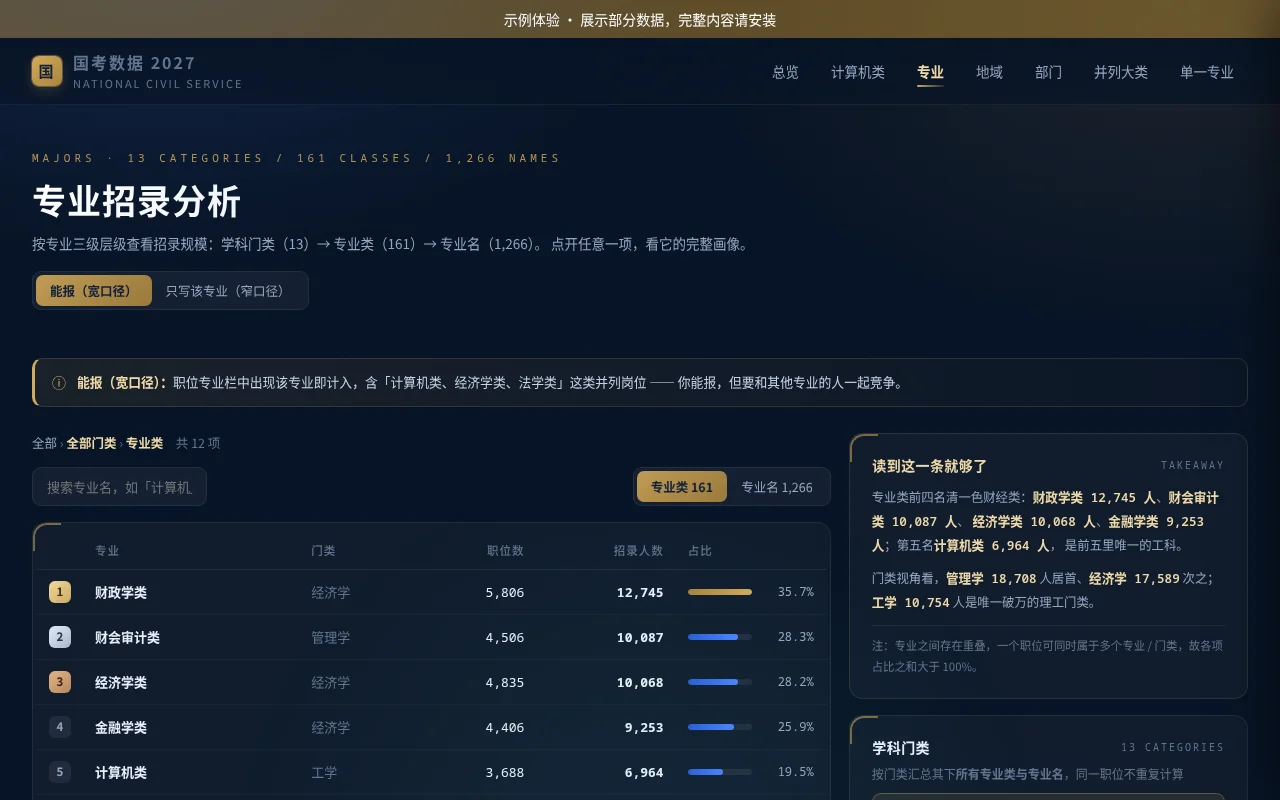
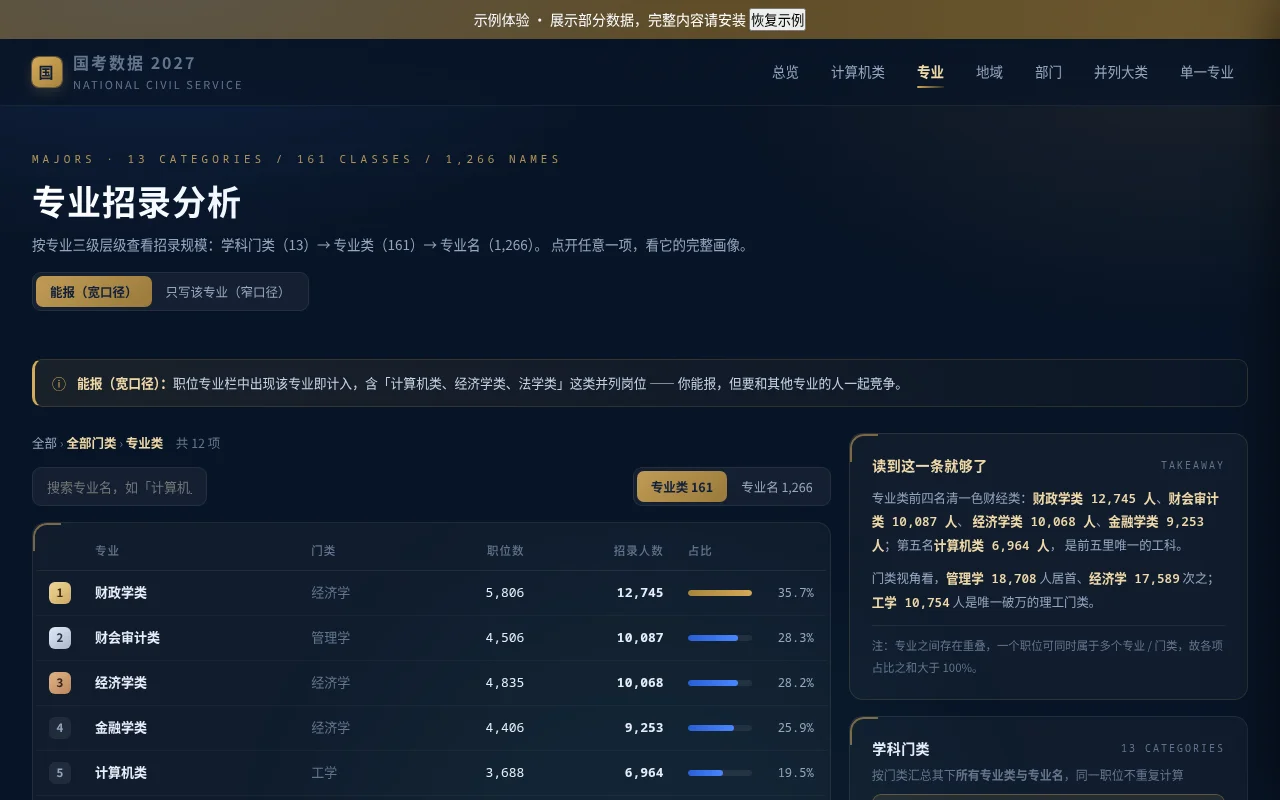
Add 2027 civil service statistics template

diff --git a/wb1024-c172-64de176f/showcase/preview.html b/wb1024-c172-64de176f/showcase/preview.html
@@ -317,7 +317,7 @@ h1 .zh{display:block}
 </style>
 </head>
 <body>
-<div style="padding:8px;text-align:center;background:#5f4d29;color:white">示例体验 · 展示部分数据，完整内容请安装</div><div id="nav"></div>
+<div style="padding:8px;text-align:center;background:#5f4d29;color:white">示例体验 · 展示部分数据，完整内容请安装 <button id="resetDemo" type="button">恢复示例</button></div><div id="nav"></div>
 <div class="wrap">
 
   <div class="head">
@@ -424,7 +424,7 @@ h1 .zh{display:block}
   </div>
 </div>
 
-<script>window.GK={"meta":{"title":"2027 年度国考招录数据","pos":19426,"hc":35691,"official":"3.57万","avg":1.84,"source":"国家公务员局《中央机关及其直属机构2027年度考试录用公务员招考简章》"},"counters":{"dept":589,"bureau":5927,"region":374,"major":1441,"major_cat":13,"major_class":161,"major_name":1266},"major_l1":[{"id":0,"name":"管理学","category":"管理学","level":1,"pos":9148,"hc":18708,"pct":52.42,"n_class":17,"n_name":96},{"id":0,"name":"经济学","category":"经济学","level":1,"pos":8444,"hc":17589,"pct":49.28,"n_class":12,"n_name":82},{"id":0,"name":"工学","category":"工学","level":1,"pos":6260,"hc":10754,"pct":30.13,"n_class":57,"n_name":375},{"id":0,"name":"理学","category":"理学","level":1,"pos":4334,"hc":7853,"pct":22,"n_class":20,"n_name":108},{"id":0,"name":"法学","category":"法学","level":1,"pos":3913,"hc":6815,"pct":19.09,"n_class":11,"n_name":79}],"major_l2":[{"id":500,"name":"财政学类","category":"经济学","level":2,"pos":5806,"hc":12745,"pct":35.71},{"id":947,"name":"财会审计类","category":"管理学","level":2,"pos":4506,"hc":10087,"pct":28.26},{"id":272,"name":"经济学类","category":"经济学","level":2,"pos":4835,"hc":10068,"pct":28.21},{"id":395,"name":"金融学类","category":"经济学","level":2,"pos":4406,"hc":9253,"pct":25.93},{"id":80,"name":"计算机类","category":"工学","level":2,"pos":3688,"hc":6964,"pct":19.51},{"id":311,"name":"经济与贸易类","category":"经济学","level":2,"pos":2918,"hc":6063,"pct":16.99},{"id":302,"name":"统计学类","category":"理学","level":2,"pos":3004,"hc":5653,"pct":15.84},{"id":46,"name":"法学类","category":"法学","level":2,"pos":2837,"hc":5246,"pct":14.7},{"id":303,"name":"数学类","category":"理学","level":2,"pos":2709,"hc":5126,"pct":14.36},{"id":198,"name":"电子信息类","category":"工学","level":2,"pos":2447,"hc":4777,"pct":13.38},{"id":49,"name":"中国语言文学类","category":"文学","level":2,"pos":2299,"hc":4517,"pct":12.66},{"id":948,"name":"社会保障类","category":"管理学","level":2,"pos":1834,"hc":3994,"pct":11.19}],"major_l3":[{"id":14,"name":"计算机科学与技术","category":"工学","level":3,"pos":961,"hc":1518,"pct":4.25},{"id":81,"name":"软件工程","category":"工学","level":3,"pos":878,"hc":1317,"pct":3.69},{"id":74,"name":"计算机技术","category":"工学","level":3,"pos":118,"hc":184,"pct":0.52},{"id":513,"name":"电子与计算机工程","category":"工学","level":3,"pos":125,"hc":166,"pct":0.47},{"id":221,"name":"计算机应用技术","category":"工学","level":3,"pos":65,"hc":88,"pct":0.25},{"id":381,"name":"计算机软件与理论","category":"工学","level":3,"pos":49,"hc":59,"pct":0.17},{"id":715,"name":"计算机系统结构","category":"工学","level":3,"pos":35,"hc":38,"pct":0.11},{"id":208,"name":"计算机","category":"工学","level":3,"pos":29,"hc":30,"pct":0.08},{"id":1028,"name":"专业应为计算机科学与技术","category":"工学","level":3,"pos":23,"hc":23,"pct":0.06}],"exclusive":{"top":[{"k":"法学类","pos":310,"hc":"422"},{"k":"计算机类","pos":116,"hc":"152"},{"k":"经济学","pos":96,"hc":"130"},{"k":"航海技术","pos":86,"hc":"122"},{"k":"法学","pos":73,"hc":"110"},{"k":"经济学类","pos":61,"hc":"95"},{"k":"气象类","pos":88,"hc":"88"},{"k":"轮机工程","pos":57,"hc":"76"},{"k":"会计学类","pos":11,"hc":"34"},{"k":"英语相关","pos":20,"hc":"27"},{"k":"计算机","pos":26,"hc":"26"},{"k":"英语","pos":15,"hc":"23"}]},"profiles":{"计算机类":{"name":"计算机类","pos":3688,"hc":6964,"pct":19.51,"org_level":[{"k":"县（区）级及以下","pos":3173,"hc":"6163"},{"k":"市（地）级","pos":454,"hc":"706"},{"k":"省（副省）级","pos":49,"hc":"77"},{"k":"中央","pos":12,"hc":"18"}],"edu":[{"k":"本科及以上","pos":3122,"hc":"6186"},{"k":"仅限本科","pos":467,"hc":"612"},{"k":"硕士研究生及以上","pos":56,"hc":"100"},{"k":"本科或硕士研究生","pos":35,"hc":"53"},{"k":"仅限硕士研究生","pos":7,"hc":"12"},{"k":"大专或本科","pos":1,"hc":"1"}],"province":[{"k":"广东省","pos":237,"hc":"502"},{"k":"河北省","pos":257,"hc":"466"},{"k":"河南省","pos":284,"hc":"427"},{"k":"山东省","pos":198,"hc":"421"},{"k":"四川省","pos":200,"hc":"409"},{"k":"辽宁省","pos":169,"hc":"401"},{"k":"湖北省","pos":175,"hc":"370"},{"k":"黑龙江省","pos":160,"hc":"363"}],"dept":[{"k":"国家税务总局广东省税务局","pos":162,"hc":"394"},{"k":"国家税务总局河北省税务局","pos":190,"hc":"381"},{"k":"国家税务总局四川省税务局","pos":166,"hc":"369"},{"k":"国家税务总局黑龙江省税务局","pos":143,"hc":"344"},{"k":"国家税务总局山东省税务局","pos":141,"hc":"342"},{"k":"国家税务总局河南省税务局","pos":220,"hc":"335"},{"k":"国家税务总局辽宁省税务局","pos":117,"hc":"333"},{"k":"国家税务总局湖北省税务局","pos":140,"hc":"329"}],"cooccur":[{"k":"电子信息类","pos":2333},{"k":"统计学类","pos":2324},{"k":"数学类","pos":2180},{"k":"经济学类","pos":748},{"k":"财政学类","pos":726},{"k":"金融学类","pos":639},{"k":"法学类","pos":620},{"k":"自动化类","pos":567},{"k":"中国语言文学类","pos":558},{"k":"公共管理类","pos":487}],"children":[]}},"cooccur":{"top":[{"a":"财政学类","b":"财会审计类","pos":4024},{"a":"经济学类","b":"财会审计类","pos":2535},{"a":"计算机类","b":"统计学类","pos":2324},{"a":"金融学类","b":"财会审计类","pos":2239},{"a":"计算机类","b":"数学类","pos":2180},{"a":"法学类","b":"中国语言文学类","pos":1958},{"a":"法学类","b":"新闻传播学类","pos":1696},{"a":"财政学类","b":"社会保障类","pos":1525},{"a":"电子信息类","b":"统计学类","pos":1483},{"a":"电子信息类","b":"数学类","pos":1397},{"a":"经济学类","b":"工商管理类","pos":1304},{"a":"工商管理类","b":"财政学类","pos":1281}]},"dept_top":[{"k":"国家税务总局山东省税务局","pos":685,"hc":1600},{"k":"国家税务总局云南省税务局","pos":817,"hc":1400},{"k":"国家税务总局河北省税务局","pos":610,"hc":1300},{"k":"国家税务总局广东省税务局","pos":543,"hc":1300},{"k":"国家税务总局湖北省税务局","pos":566,"hc":1300},{"k":"国家税务总局河南省税务局","pos":753,"hc":1300}]};</script><script>/* ============================================================
+<script>window.GK={"meta":{"title":"2027 年度国考招录数据","pos":19426,"hc":35691,"official":"3.57万","avg":1.84,"source":"国家公务员局《中央机关及其直属机构2027年度考试录用公务员招考简章》"},"counters":{"dept":589,"bureau":5927,"region":374,"major":1441,"major_cat":13,"major_class":161,"major_name":1266},"major_l1":[{"id":0,"name":"管理学","category":"管理学","level":1,"pos":9148,"hc":18708,"pct":52.42,"n_class":17,"n_name":96},{"id":0,"name":"经济学","category":"经济学","level":1,"pos":8444,"hc":17589,"pct":49.28,"n_class":12,"n_name":82},{"id":0,"name":"工学","category":"工学","level":1,"pos":6260,"hc":10754,"pct":30.13,"n_class":57,"n_name":375},{"id":0,"name":"理学","category":"理学","level":1,"pos":4334,"hc":7853,"pct":22,"n_class":20,"n_name":108},{"id":0,"name":"法学","category":"法学","level":1,"pos":3913,"hc":6815,"pct":19.09,"n_class":11,"n_name":79}],"major_l2":[{"id":500,"name":"财政学类","category":"经济学","level":2,"pos":5806,"hc":12745,"pct":35.71},{"id":947,"name":"财会审计类","category":"管理学","level":2,"pos":4506,"hc":10087,"pct":28.26},{"id":272,"name":"经济学类","category":"经济学","level":2,"pos":4835,"hc":10068,"pct":28.21},{"id":395,"name":"金融学类","category":"经济学","level":2,"pos":4406,"hc":9253,"pct":25.93},{"id":80,"name":"计算机类","category":"工学","level":2,"pos":3688,"hc":6964,"pct":19.51},{"id":311,"name":"经济与贸易类","category":"经济学","level":2,"pos":2918,"hc":6063,"pct":16.99},{"id":302,"name":"统计学类","category":"理学","level":2,"pos":3004,"hc":5653,"pct":15.84},{"id":46,"name":"法学类","category":"法学","level":2,"pos":2837,"hc":5246,"pct":14.7},{"id":303,"name":"数学类","category":"理学","level":2,"pos":2709,"hc":5126,"pct":14.36},{"id":198,"name":"电子信息类","category":"工学","level":2,"pos":2447,"hc":4777,"pct":13.38},{"id":49,"name":"中国语言文学类","category":"文学","level":2,"pos":2299,"hc":4517,"pct":12.66},{"id":948,"name":"社会保障类","category":"管理学","level":2,"pos":1834,"hc":3994,"pct":11.19}],"major_l3":[{"id":14,"name":"计算机科学与技术","category":"工学","level":3,"pos":961,"hc":1518,"pct":4.25},{"id":81,"name":"软件工程","category":"工学","level":3,"pos":878,"hc":1317,"pct":3.69},{"id":74,"name":"计算机技术","category":"工学","level":3,"pos":118,"hc":184,"pct":0.52},{"id":513,"name":"电子与计算机工程","category":"工学","level":3,"pos":125,"hc":166,"pct":0.47},{"id":221,"name":"计算机应用技术","category":"工学","level":3,"pos":65,"hc":88,"pct":0.25},{"id":381,"name":"计算机软件与理论","category":"工学","level":3,"pos":49,"hc":59,"pct":0.17}],"exclusive":{"top":[{"k":"法学类","pos":310,"hc":"422"},{"k":"计算机类","pos":116,"hc":"152"},{"k":"经济学","pos":96,"hc":"130"},{"k":"航海技术","pos":86,"hc":"122"},{"k":"法学","pos":73,"hc":"110"},{"k":"经济学类","pos":61,"hc":"95"}]},"profiles":{"计算机类":{"name":"计算机类","pos":3688,"hc":6964,"pct":19.51,"org_level":[{"k":"县（区）级及以下","pos":3173,"hc":"6163"},{"k":"市（地）级","pos":454,"hc":"706"},{"k":"省（副省）级","pos":49,"hc":"77"},{"k":"中央","pos":12,"hc":"18"}],"edu":[{"k":"本科及以上","pos":3122,"hc":"6186"},{"k":"仅限本科","pos":467,"hc":"612"},{"k":"硕士研究生及以上","pos":56,"hc":"100"},{"k":"本科或硕士研究生","pos":35,"hc":"53"},{"k":"仅限硕士研究生","pos":7,"hc":"12"},{"k":"大专或本科","pos":1,"hc":"1"}],"province":[{"k":"广东省","pos":237,"hc":"502"},{"k":"河北省","pos":257,"hc":"466"},{"k":"河南省","pos":284,"hc":"427"},{"k":"山东省","pos":198,"hc":"421"},{"k":"四川省","pos":200,"hc":"409"},{"k":"辽宁省","pos":169,"hc":"401"},{"k":"湖北省","pos":175,"hc":"370"},{"k":"黑龙江省","pos":160,"hc":"363"}],"dept":[{"k":"国家税务总局广东省税务局","pos":162,"hc":"394"},{"k":"国家税务总局河北省税务局","pos":190,"hc":"381"},{"k":"国家税务总局四川省税务局","pos":166,"hc":"369"},{"k":"国家税务总局黑龙江省税务局","pos":143,"hc":"344"},{"k":"国家税务总局山东省税务局","pos":141,"hc":"342"},{"k":"国家税务总局河南省税务局","pos":220,"hc":"335"},{"k":"国家税务总局辽宁省税务局","pos":117,"hc":"333"},{"k":"国家税务总局湖北省税务局","pos":140,"hc":"329"}],"cooccur":[{"k":"电子信息类","pos":2333},{"k":"统计学类","pos":2324},{"k":"数学类","pos":2180},{"k":"经济学类","pos":748},{"k":"财政学类","pos":726},{"k":"金融学类","pos":639},{"k":"法学类","pos":620},{"k":"自动化类","pos":567},{"k":"中国语言文学类","pos":558},{"k":"公共管理类","pos":487}],"children":[]}},"cooccur":{"top":[{"a":"财政学类","b":"财会审计类","pos":4024},{"a":"经济学类","b":"财会审计类","pos":2535},{"a":"计算机类","b":"统计学类","pos":2324},{"a":"金融学类","b":"财会审计类","pos":2239},{"a":"计算机类","b":"数学类","pos":2180},{"a":"法学类","b":"中国语言文学类","pos":1958}]},"dept_top":[{"k":"国家税务总局山东省税务局","pos":685,"hc":1600},{"k":"国家税务总局云南省税务局","pos":817,"hc":1400},{"k":"国家税务总局河北省税务局","pos":610,"hc":1300},{"k":"国家税务总局广东省税务局","pos":543,"hc":1300},{"k":"国家税务总局湖北省税务局","pos":566,"hc":1300},{"k":"国家税务总局河南省税务局","pos":753,"hc":1300}]};</script><script>/* ============================================================
    公共脚本：导航 / 格式化 / ECharts 统一视觉
    ============================================================ */
 (function () {
@@ -966,5 +966,5 @@ function openD(name, lv) {
   drawer.classList.add('on'); mask.classList.add('on');
 }
 </script>
-<script>previewReady.then(()=>{const el=document.createElement('script');el.textContent=document.getElementById('preview-code').textContent;document.body.append(el);document.querySelectorAll('#nav a').forEach(a=>{a.removeAttribute('href');a.title='安装后可浏览完整页面'})});</script></body>
+<script>previewReady.then(()=>{const el=document.createElement('script');el.textContent=document.getElementById('preview-code').textContent;document.body.append(el);document.getElementById('resetDemo').onclick=()=>{document.getElementById('kw').value='';document.getElementById('suggBox').classList.remove('on');document.getElementById('dclose').click();document.querySelector('#segCal button[data-c=wide]').click();document.getElementById('catAll').click();};document.querySelectorAll('#nav a').forEach(a=>{a.removeAttribute('href');a.title='安装后可浏览完整页面'})});</script></body>
 </html>
